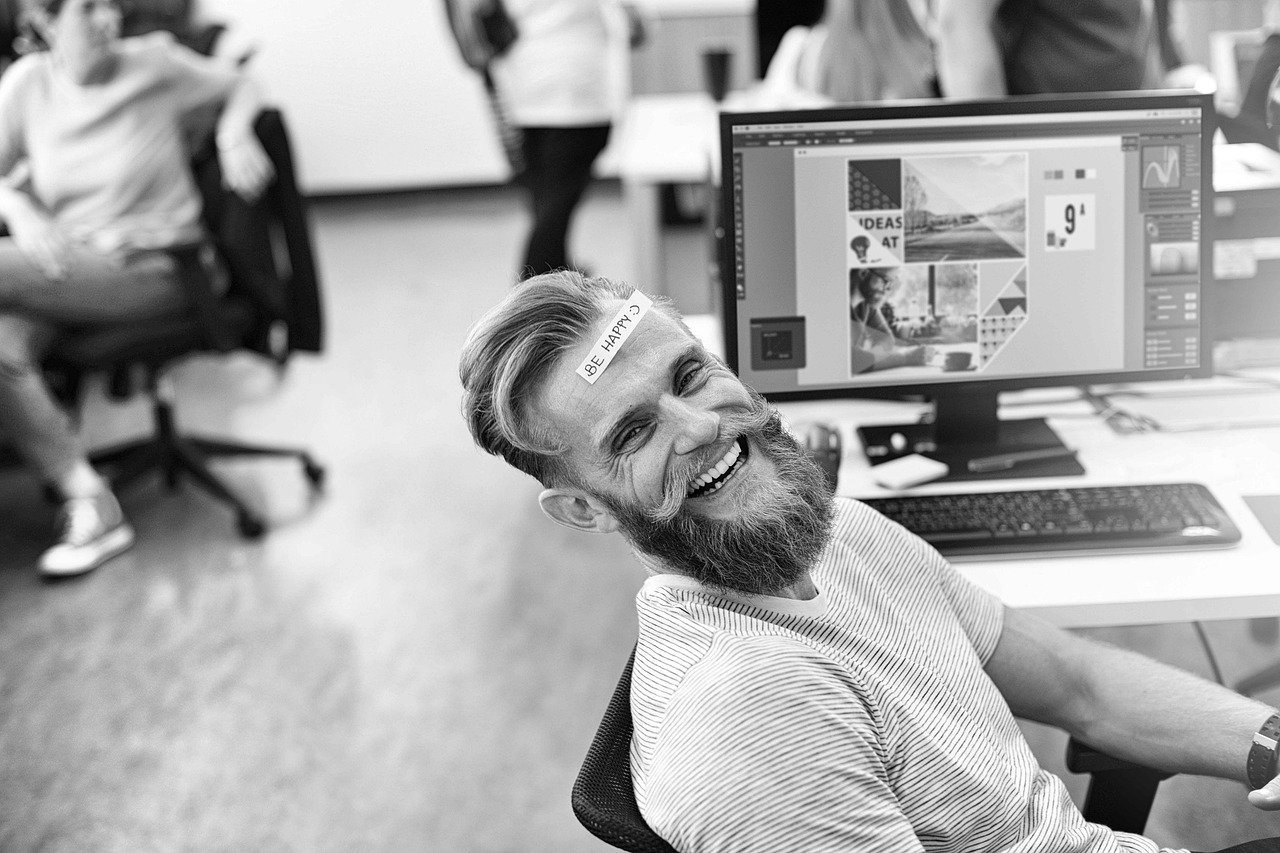
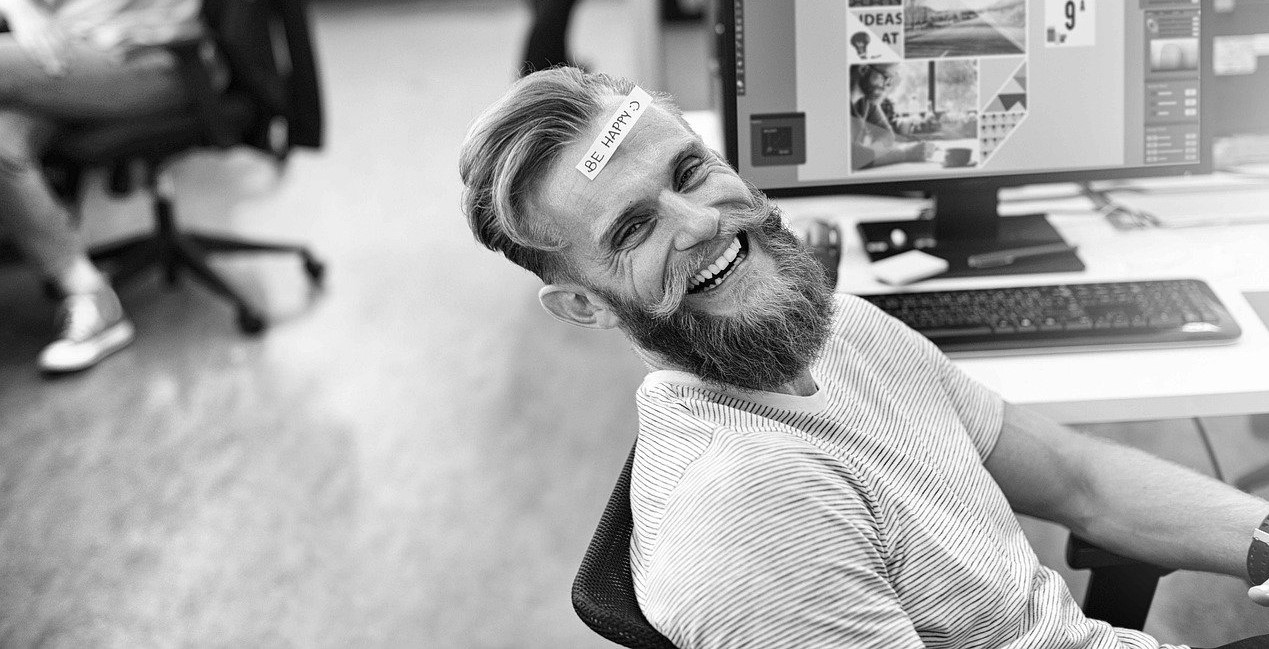
First Blog and basic design completed.

diff --git a/blogs/career.html b/blogs/career.html
@@ -1,0 +1,117 @@
+<!DOCTYPE html>
+<html lang="en">
+    <head>
+        <meta charset="UTF-8">
+        <meta name="viewport" content="width=device-width, initial-scale=1.0">
+        <meta http-equiv="X-UA-Compatible" content="ie=edge">
+
+        <link href="https://fonts.googleapis.com/css?family=Lato:100,300,400,700,900" rel="stylesheet">
+        <script src="https://ajax.googleapis.com/ajax/libs/jquery/3.5.1/jquery.min.js"></script>
+        <script src="../jquery/blog.js"></script>
+
+        <link rel="stylesheet" href="https://cdn.jsdelivr.net/npm/bootstrap@4.5.3/dist/css/bootstrap.min.css" integrity="sha384-TX8t27EcRE3e/ihU7zmQxVncDAy5uIKz4rEkgIXeMed4M0jlfIDPvg6uqKI2xXr2" crossorigin="anonymous">
+        <link rel="stylesheet" href="../css/style.css">
+        
+        <title>Siddharth's BLOG</title>
+    </head>
+<body>
+    <div class="navigation">
+        <input type="checkbox" class="navigation__checkbox" id="navi-toggle">
+        <label for="navi-toggle" class="navigation__button">
+            <span class="navigation__icon">&nbsp;</span>
+        </label>
+        <div class="navigation__background">&nbsp;</div>
+        <nav class="navigation__nav">
+            <ul class="navigation__list">
+                <li class="navigation__item"><a href="#" class="navigation__link"><span>01</span>Home Page</a></li>
+                <li class="navigation__item"><a href="#" class="navigation__link"><span>02</span>Portfolio</a></li>
+                <li class="navigation__item"><a href="#" class="navigation__link"><span>03</span>Contact</a></li>
+
+                </ul>
+        </nav>
+    </div>
+
+    <div class="blog_logo">
+        <a href="../index.html"><img src="../img/logo.png" alt=""></a>
+    </div>
+
+    <div class="container-fluid-sm">
+        <header>
+            <div class="blog_cover career" value="career">
+            </div>
+        </header>
+    </div>
+    <div class="container">
+        <div class="blog_title">Make career and have fun</div>
+        <div class="blog_content">
+            <p>
+                The alarm goes off and with soar eyes you hold the world in your hands. Every morning when you wake up, the first thing that you do is check your phone, get connected to the world via internet. Sending and receiving greetings, you give a go to your day. So normal and usual it seems that we forget to acknowledge the breathtaking technologies that we are using and the ocean of opportunities that these technologies has brought to light for us.
+            </p>
+            <p>We live in an era in which if something can be thought of, it can be implemented as well. No matter what your academic background is, no matter what CGPA you have, with current technologies, only if you dare to dream you can make it all come true.</p>
+            <p><strong>What's stopping you.</strong></p>
+            <p>
+                You want to be a singer? Upload your music videos to youtube. <br>
+                You want to an artist? Post your drawings on Instagram. <br>
+                You want to be a coder? Good, start with hackerrank. <br>
+                You want to be an entrepreneur? Start solving problems. <br>
+                You want to be a cook? Super, cook and upload recipes to a blog or Insta/Youtube. <br>
+            </p>
+            <p>
+                Then you would ask me, “Siddharth, those are the options for people who already know how to do it. I’m a beginner, how do I do that?”. “Observe them”, I would say.  All the people who are doing it have started somewhere like you, like a beginner. All you need to do is use the technologies in your favor. That phone that you start your day with, has the potential to start your dream life. No matter what you do and what you want to do, it can teach you everything. We are so fortunate to be born at such a time when a human can be limitless, have all the information needed right away. So, trust me when I say, if you are not living your dream you are just fooling yourself with your excuses. There’s no reason to not live the way you want to.
+            </p>
+            <p><strong>"But I don't have time"</strong></p>
+
+            <p>
+                No one has time. Its true, everyone gets the same 24 hours and everyone is doing something. Even if a person is watching random videos on Instagram and youtube, he doesn’t have time. As a matter of fact, it’s never a matter of time, it’s a matter of priorities. If your sleep is more important than your dream life, then yes, you don’t have time. If chilling out with friends for hours is more important than your dream life, then yes, you don’t have time. If you want it enough, if it becomes your priority, you’ll always have time for it and if its not your priority then there will always be an excuse and something to stop you. Get your over excuses and start to see things clearly. Know what you want, what kind of life you want to live and prioritize things accordingly.
+            </p>
+            <p>
+                A few tips- <br>
+                    <strong>    1)  Be curious: </strong> Whatever you want to do, be curious about it, try to learn about it from wherever you can. When you become curious, you get a lot of questions and in process of answering those questions, you make your way towards your goal. Think about your dreams, solve the problems pertaining to it. Try to find out ways to achieve it. <br>
+                    <strong>    2)	Express Yourself:</strong> Show the world what you have. It will help you monetize whatever you are good at. Money is a very basic and important need for everyone and its importance cannot be neglected. So, if you want to earn by doing what you want to do, make sure it reaches to a number of people. Again, your phone can help, social media can help. <br>
+                    <strong>    3)	Connect with right people:</strong>	Connect with right people: Often networking is misunderstood as making lot of connections. You don’t need to make lot of connections, you need to make the right connections. Having a lot of connections will distract you but having the right set of connections will always keep you focused and motivated. It will help you in finding your answers. <br>
+            </p>
+            <p>At whatever place you are, in whatever condition you are, with whatever resources you have, now is the right time to run towards your dream. A good warrior is the one who can mend anything to a weapon. Use all that you have, make use of the technologies, let your eyes sparkle with your dream and go live it.</p>
+        </div>
+    </div>
+
+
+
+    <footer class="footer">
+        <!-- <div class="footer__logo-box">
+
+            <picture class="footer__logo">
+                <source srcset="img/logo-green-small-1x.png 1x, img/logo-green-small-2x.png 2x"
+                        media="(max-width: 37.5em)">
+                <img srcset="img/logo-green-1x.png 1x, img/logo-green-2x.png 2x" alt="Full logo" src="img/logo-green-2x.png">
+            </picture>
+
+
+            
+        </div> -->
+        <div class="row">
+            <div class="col-1-of-3">
+                <div class="footer__navigation">
+                    <ul class="footer__list">
+                        <li class="footer__item"><a href="#" class="footer__link">About</a></li>
+                        <li class="footer__item"><a href="#" class="footer__link">Contact us</a></li>
+                        <li class="footer__item"><a href="#" class="footer__link">Portfolio</a></li>
+                    </ul>
+                </div>
+            </div>
+            <div class="col-1-of-3">
+                <img src="../img/logo.png" alt="">
+            </div>
+            <div class="col-1-of-3">
+                <p class="footer__copyright">
+                    Built by <a href="#" class="footer__link">Siddharth Rai</a><br>
+                    Copyright &copy; by Siddharth Rai. 
+                </p>
+            </div>
+        </div>
+    </footer>
+
+
+    <script src="https://code.jquery.com/jquery-3.5.1.slim.min.js" integrity="sha384-DfXdz2htPH0lsSSs5nCTpuj/zy4C+OGpamoFVy38MVBnE+IbbVYUew+OrCXaRkfj" crossorigin="anonymous"></script>
+<script src="https://cdn.jsdelivr.net/npm/bootstrap@4.5.3/dist/js/bootstrap.bundle.min.js" integrity="sha384-ho+j7jyWK8fNQe+A12Hb8AhRq26LrZ/JpcUGGOn+Y7RsweNrtN/tE3MoK7ZeZDyx" crossorigin="anonymous"></script>
+</body>
+</html>

diff --git a/css/style.css b/css/style.css
@@ -983,3 +983,36 @@ body {
     @media only screen and (max-width: 56.25em) {
       .book__form {
         width: 100%; } }
+
+.container-fluid {
+  padding: 0px;
+  box-shadow: 5px 15px 15px 15px #9e9e9e; }
+
+.container {
+  background-color: #fafafa;
+  transform: translateY(-15vh);
+  box-shadow: 5px 15px 15px 15px #cfcfcf; }
+
+.blog_logo {
+  position: absolute;
+  top: 30px;
+  left: 30px; }
+
+.blog_cover {
+  height: 90vh;
+  background-size: cover;
+  background-repeat: no-repeat; }
+
+.blog_title {
+  text-transform: uppercase;
+  letter-spacing: 0.2rem;
+  text-align: center;
+  font-size: 6rem;
+  font-family: "Montserrat", sans-serif;
+  font-weight: 700; }
+
+.blog_content {
+  text-align: center;
+  padding: 4rem;
+  font-size: 2rem;
+  font-family: "Montserrat", sans-serif; }

diff --git a/jquery/blog.js b/jquery/blog.js
@@ -1,0 +1,7 @@
+$(document).ready(function(){
+    console.log("okay");
+    var ele = document.querySelector(".blog_cover").classList;
+    var imageUrl = ele[1]+"-big.jpg";
+    $("."+ele[0]).css("background-image", "url(../img/" + imageUrl + ")");
+});
+
